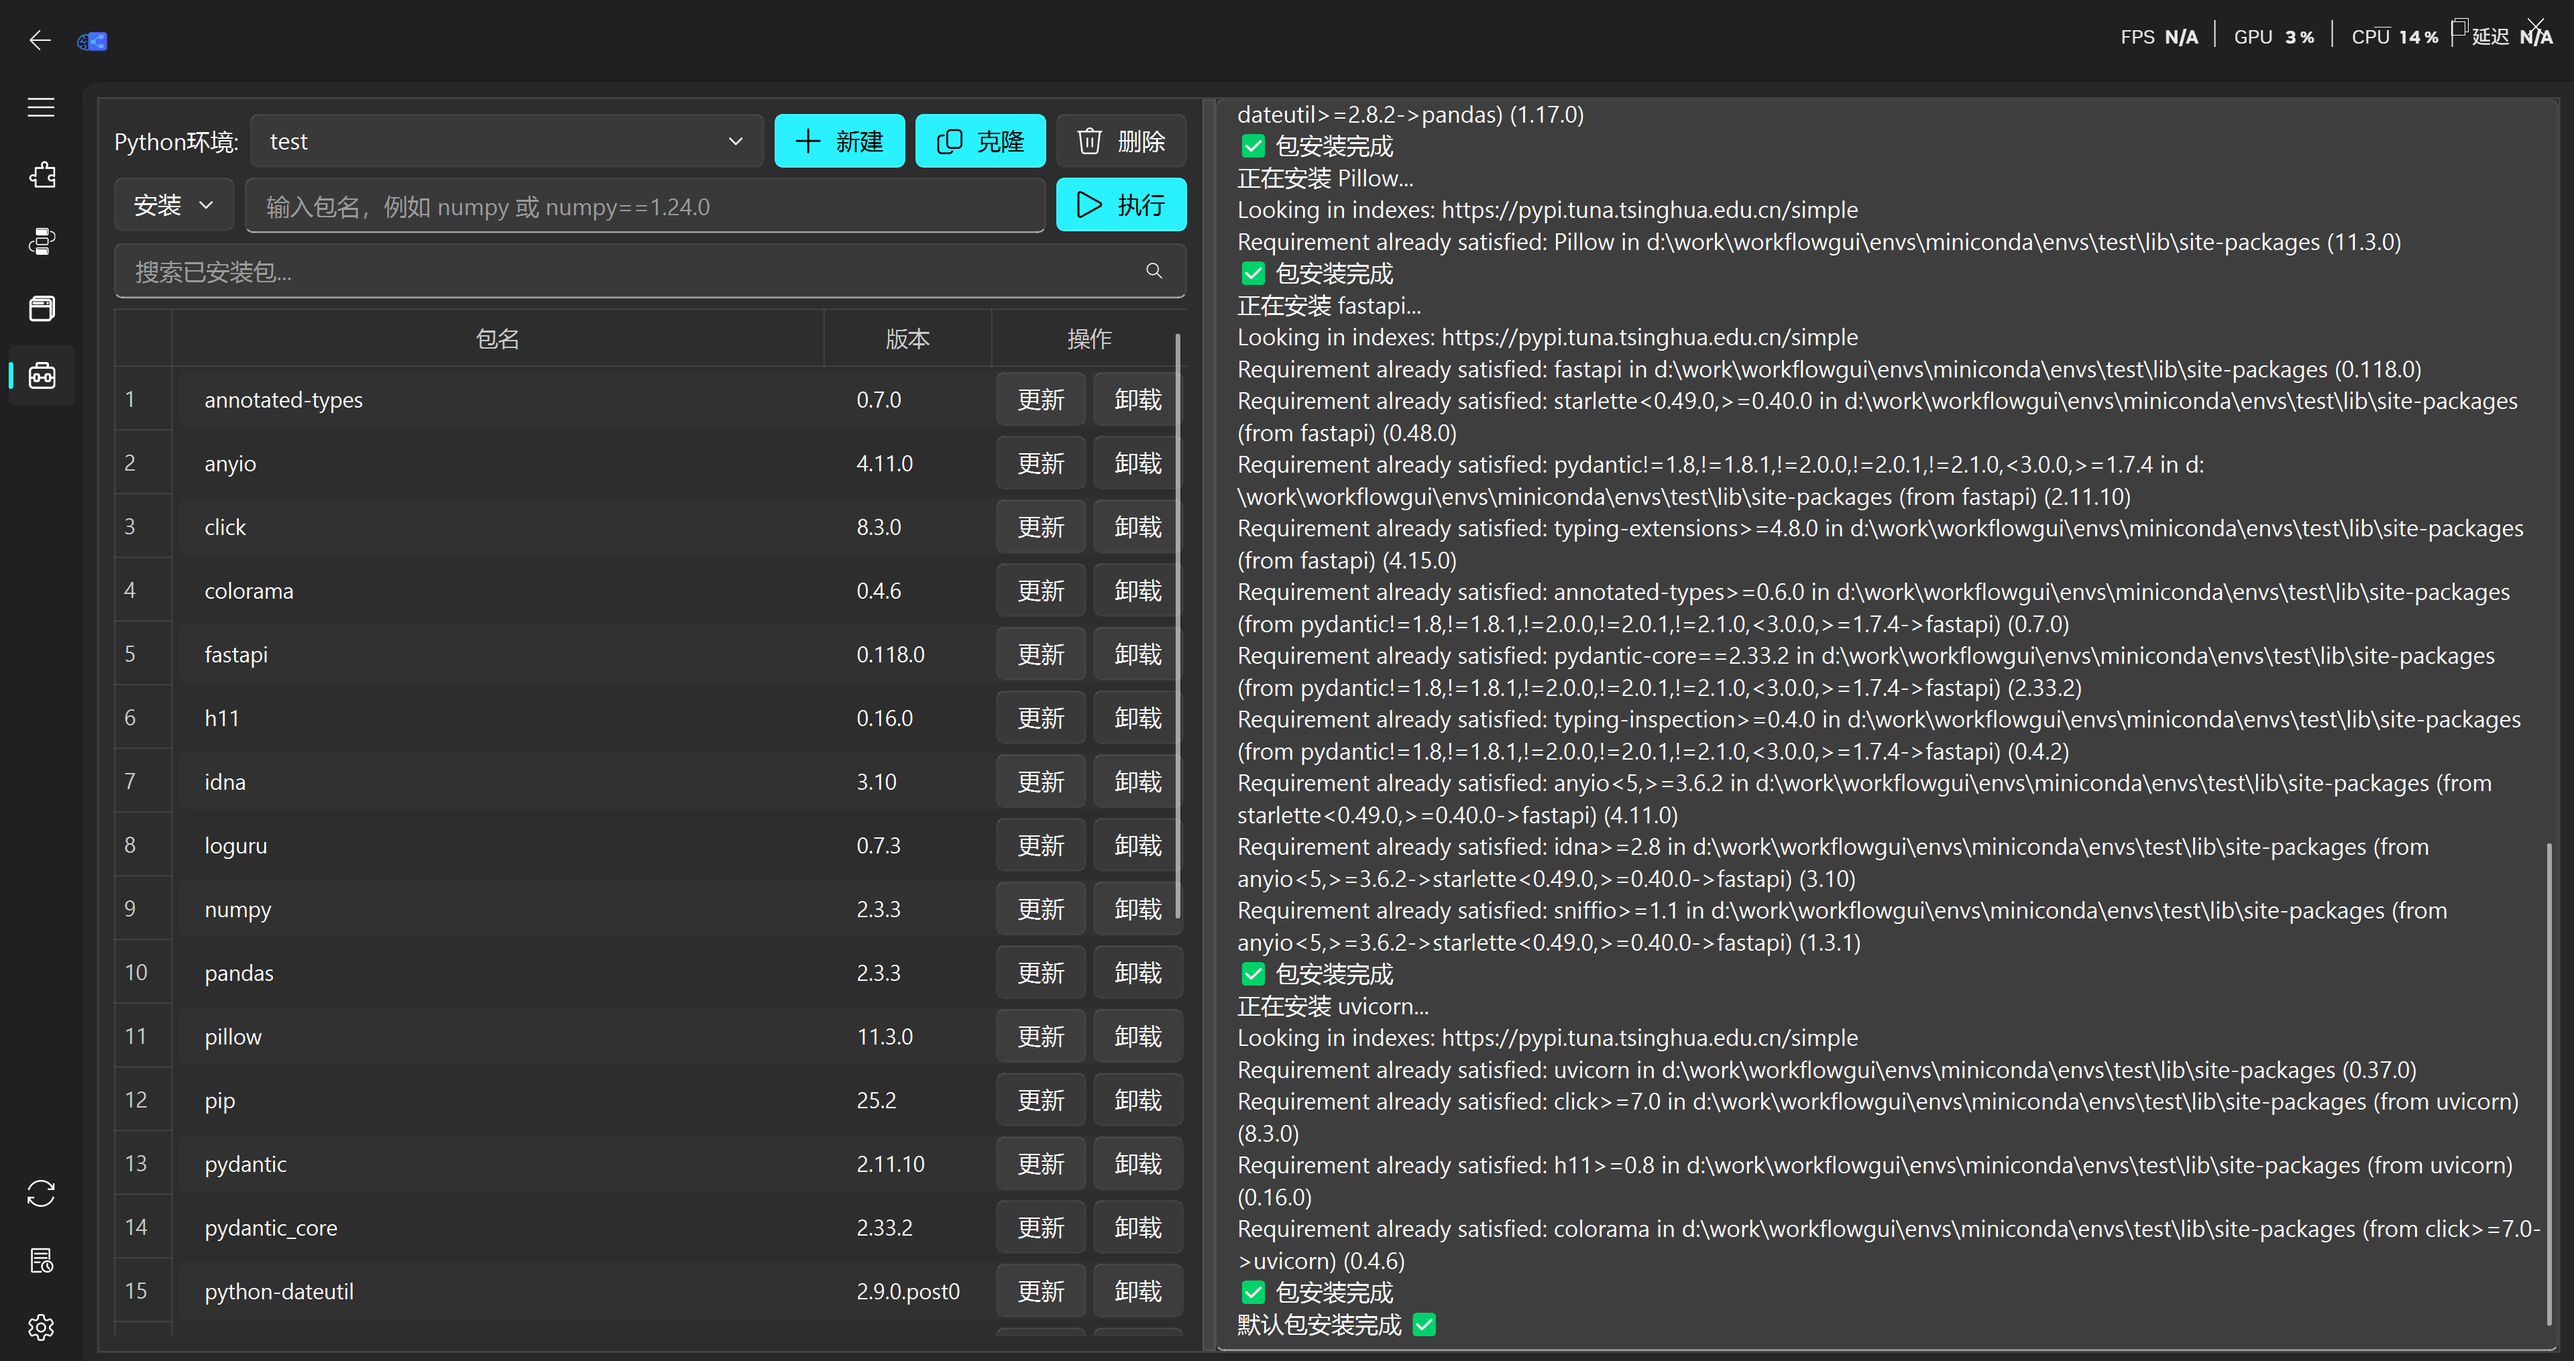
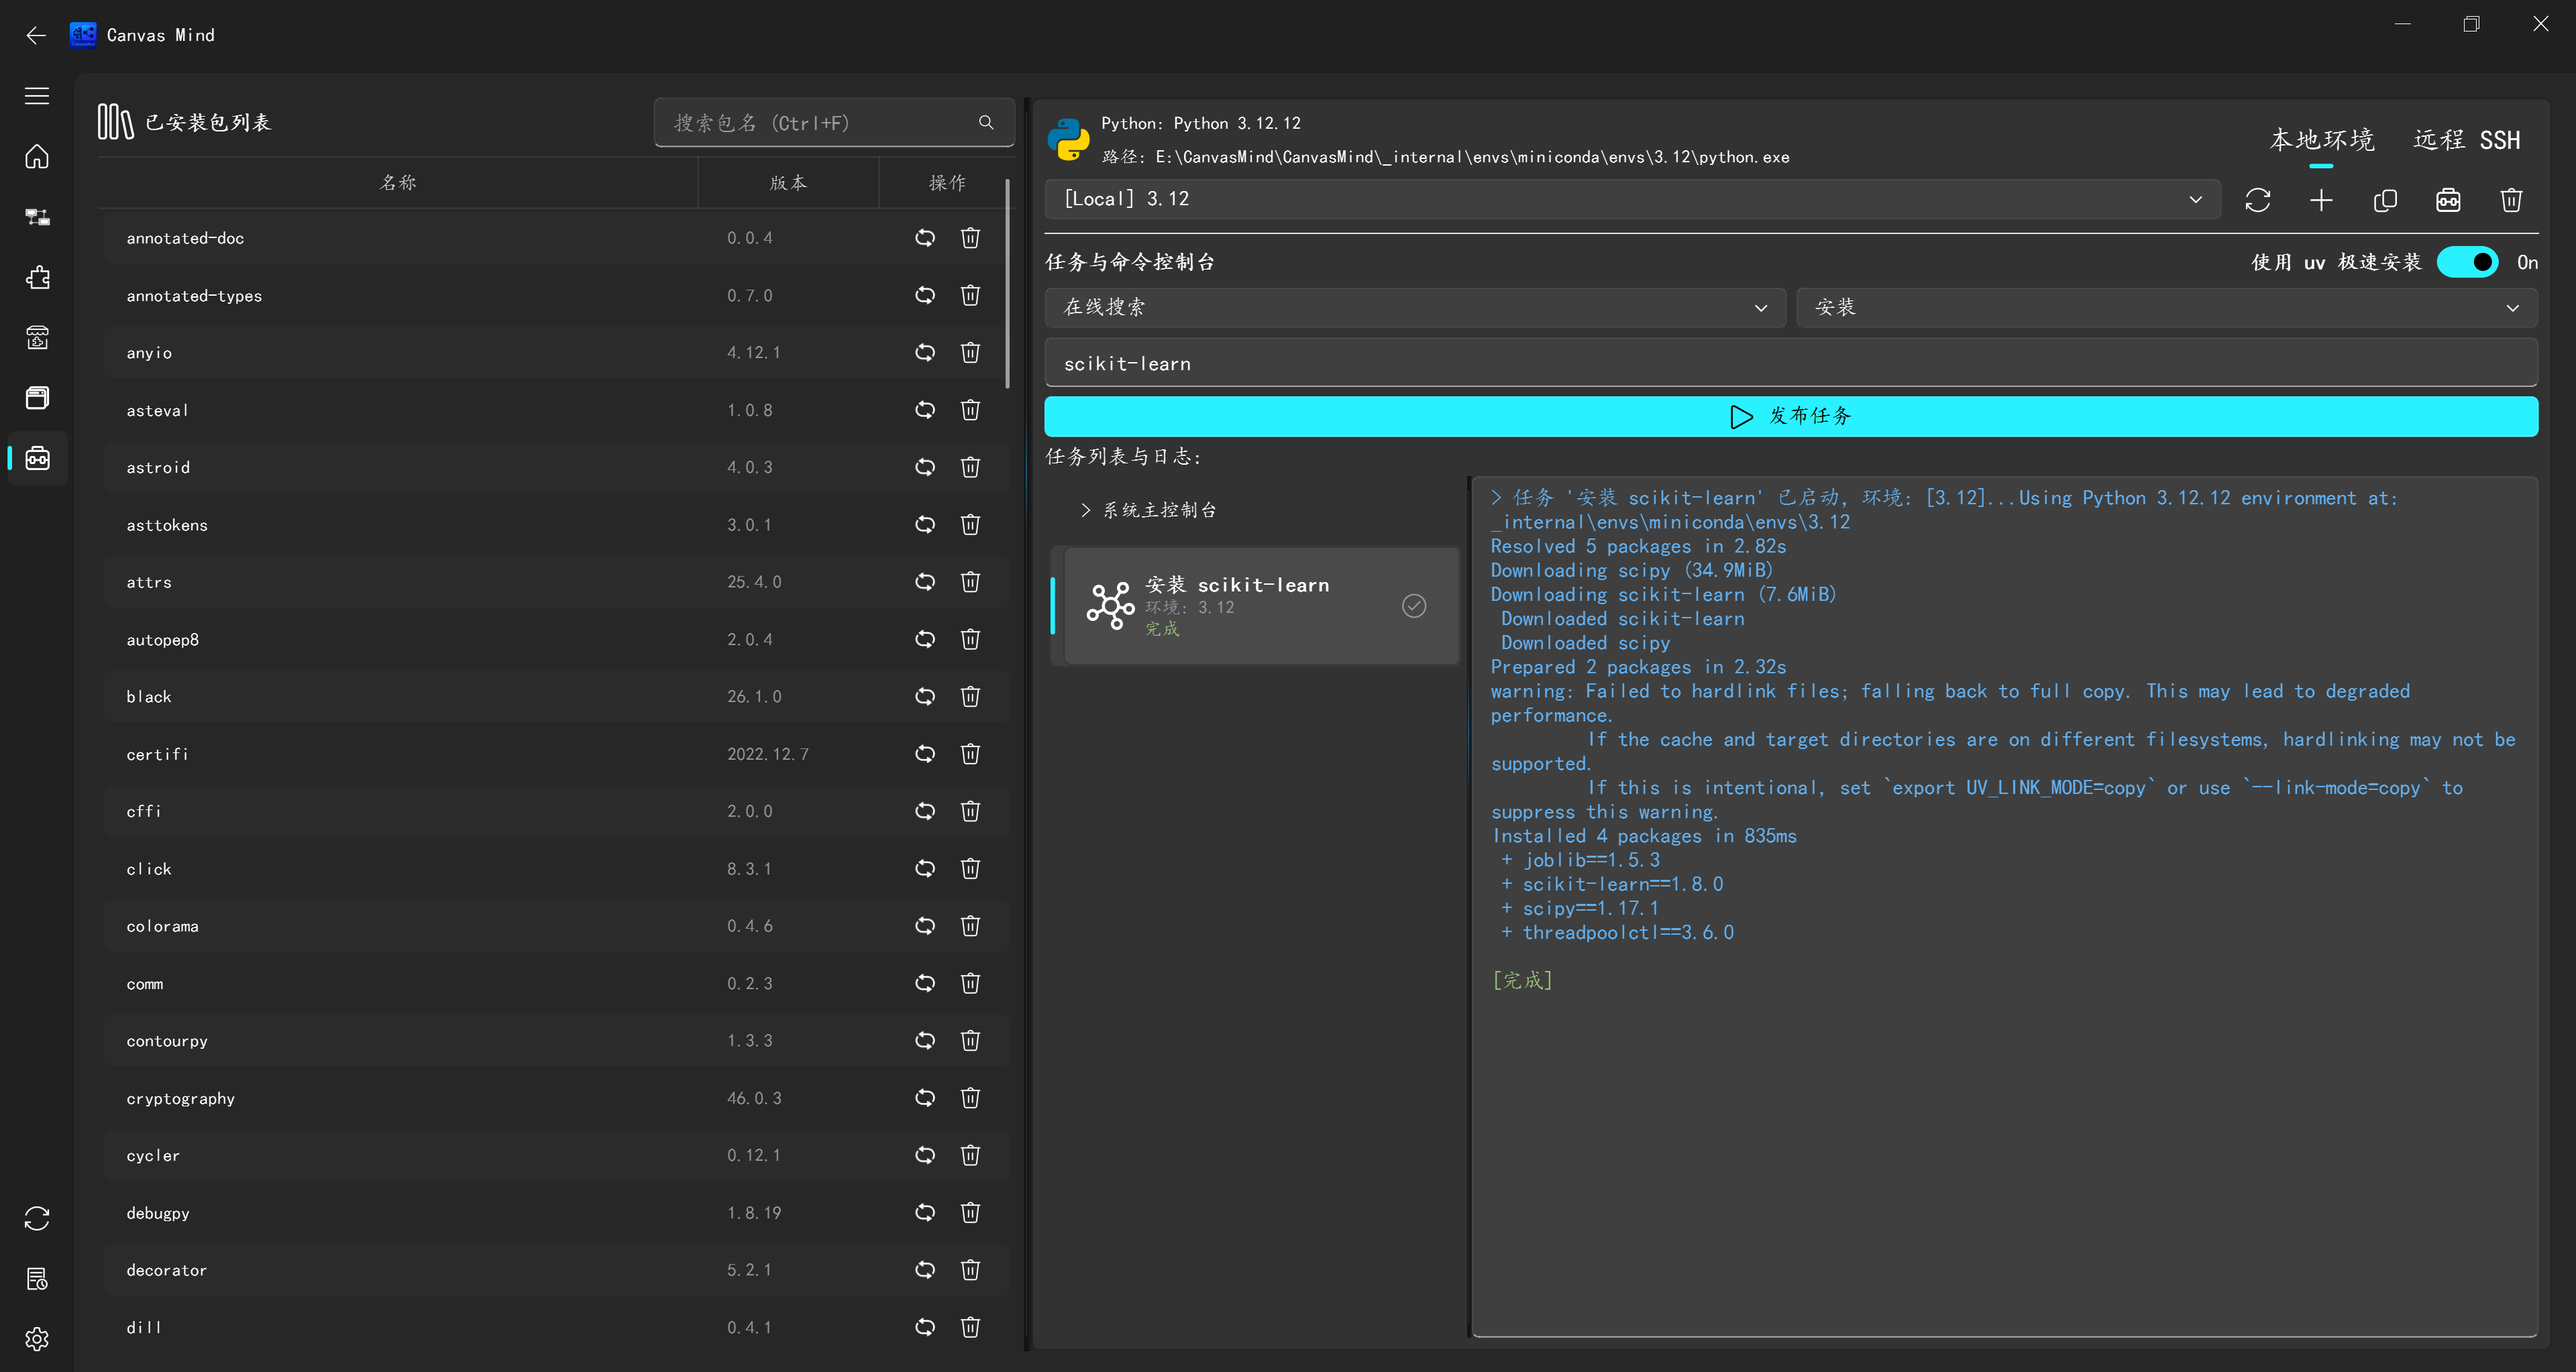
docs(canvas): 更新画布执行模式和组件调试模式文档
- 添加运行所在子图功能说明和示意图
- 更新组件调试模式操作方式描述
- 完善调试模式源码修改和覆盖逻辑说明
- 更新自定义代码节点为代码编辑节点的命名
- 修正相关使用示例中的节点名称引用

diff --git a/source/canvas/组件调试模式.rst b/source/canvas/组件调试模式.rst
@@ -5,8 +5,11 @@
 开启/关闭组件调试模式
 ------------------
 
-**右键组件开启菜单后，选择调试模式可开启/关闭调试模式**
+**右键组件开启菜单选择调试 或 点击组件按钮栏中调试按钮 后，组件进入调试模式**
 
-**调试模式可直接展示组件源码，并支持实时修改**
+**调试模式可直接展示组件源码，并支持实时修改，修改后的代码并不会直接覆盖组件源码，但是会直接在该组件的执行中生效，在关闭调试模式时会自动判断源码和调试代码，如果不一致会弹出确认框确认是否覆盖源码**
+
+界面示意图
+----------
 
 .. image:: ../_images/组件调试模式示意图.gif

diff --git a/source/canvas/画布执行模式.rst b/source/canvas/画布执行模式.rst
@@ -23,6 +23,13 @@
 
 .. image:: ../_images/从此处开始.gif
 
+运行所在子图
+-----------------
+
+将选中节点所在的子图按照拓扑排序顺序执行
+
+.. image:: ../_images/运行所在子图.gif
+
 选择节点运行
 -----------------
 
